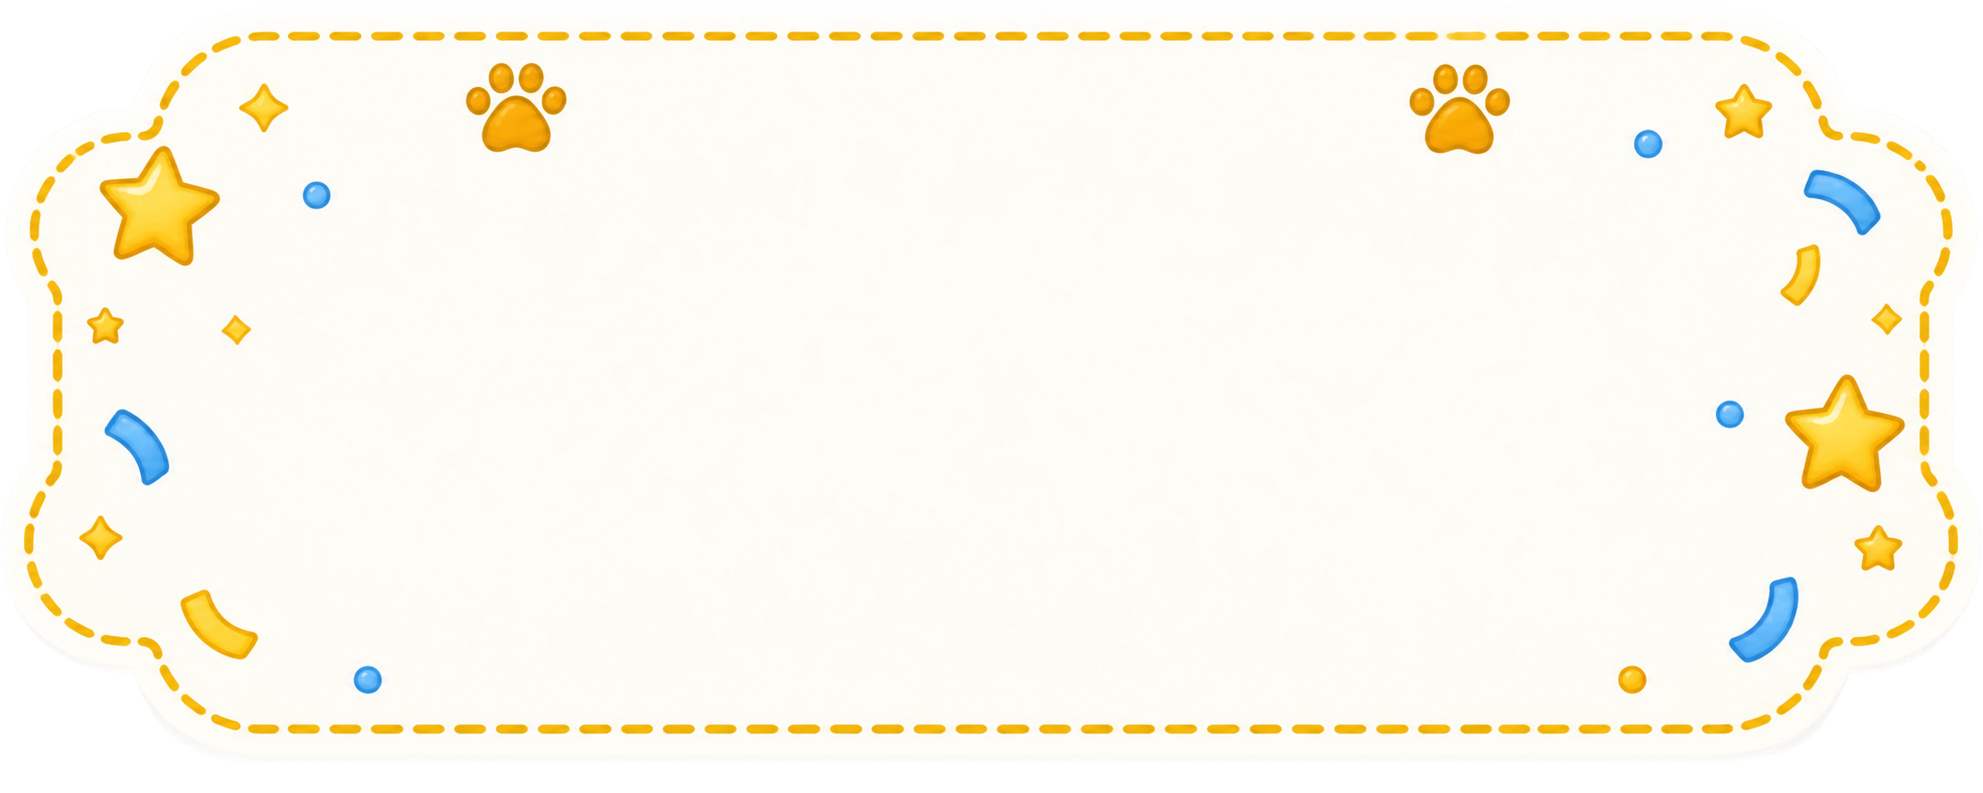
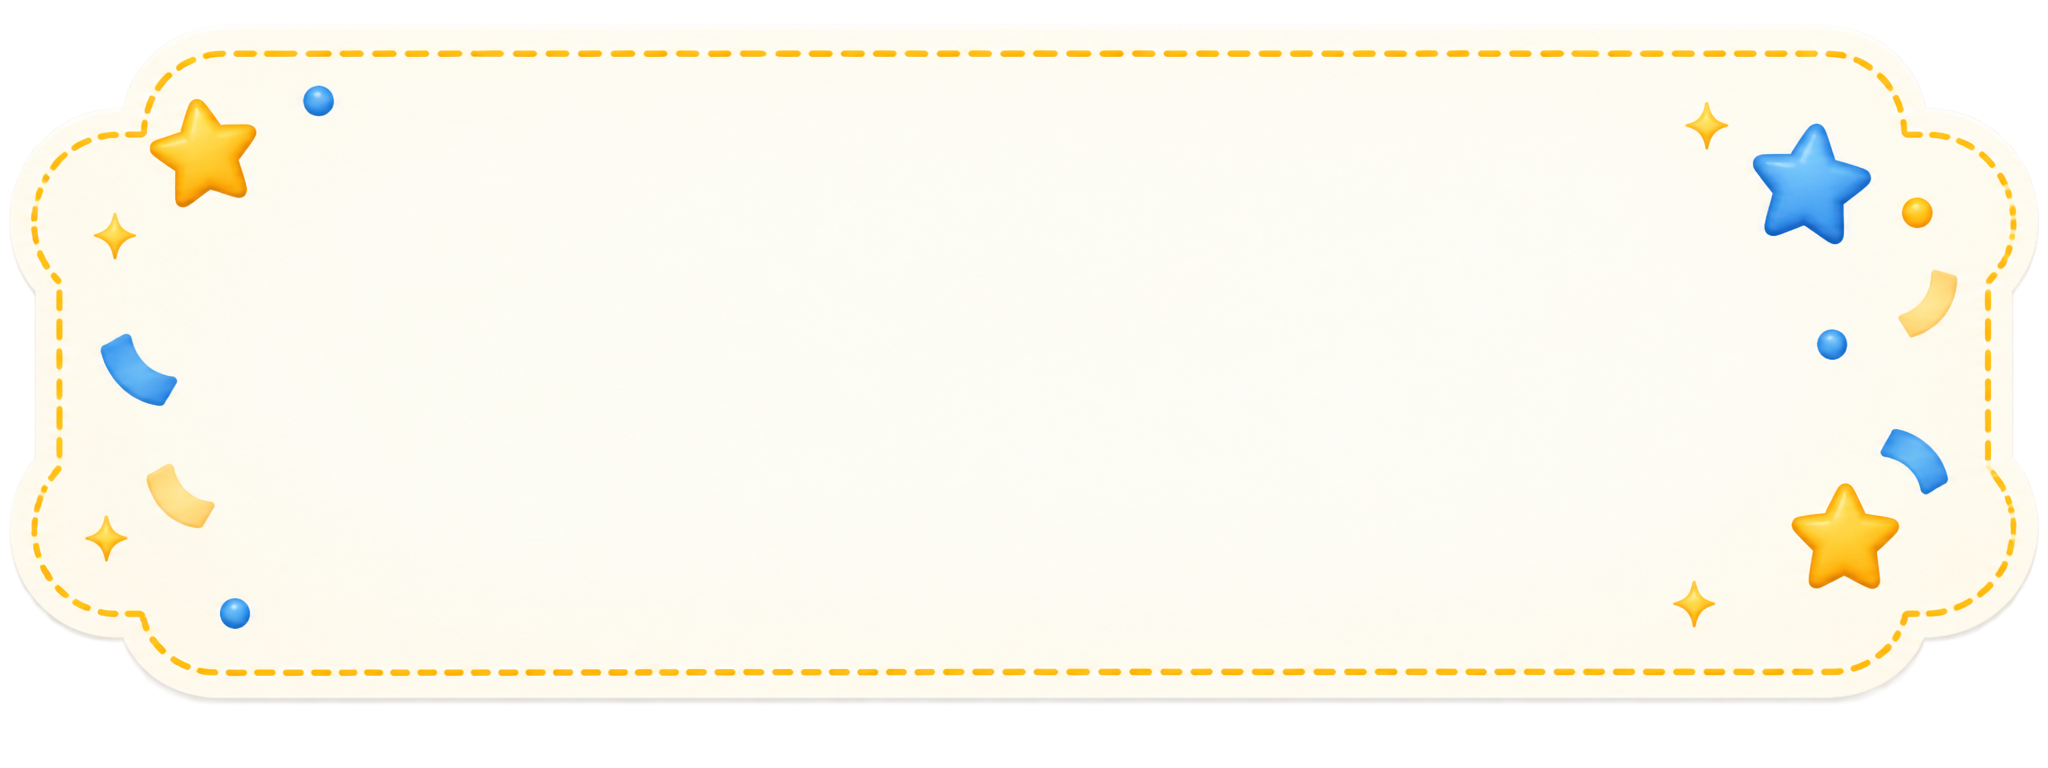
Replace and recenter gift table card

diff --git a/docs/index.html b/docs/index.html
@@ -1,5 +1,5 @@
 <!doctype html>
-<html lang="es"><head><meta charset="utf-8"><meta name="viewport" content="width=device-width,initial-scale=1"><meta name="theme-color" content="#07509a"><title>¡Mi cumple! | Invitación de Mateo</title><meta name="description" content="Acompáñanos a celebrar el cumpleaños de Mateo."><link rel="preconnect" href="https://fonts.googleapis.com"><link rel="preconnect" href="https://fonts.gstatic.com" crossorigin><link href="https://fonts.googleapis.com/css2?family=Fredoka:wght@500;600;700&display=swap" rel="stylesheet"><link rel="stylesheet" href="styles.css?v=42"><link rel="stylesheet" href="overrides.css?v=42"></head>
+<html lang="es"><head><meta charset="utf-8"><meta name="viewport" content="width=device-width,initial-scale=1"><meta name="theme-color" content="#07509a"><title>¡Mi cumple! | Invitación de Mateo</title><meta name="description" content="Acompáñanos a celebrar el cumpleaños de Mateo."><link rel="preconnect" href="https://fonts.googleapis.com"><link rel="preconnect" href="https://fonts.gstatic.com" crossorigin><link href="https://fonts.googleapis.com/css2?family=Fredoka:wght@500;600;700&display=swap" rel="stylesheet"><link rel="stylesheet" href="styles.css?v=43"><link rel="stylesheet" href="overrides.css?v=43"></head>
 <body><main class="invitation-page">
   <section class="hero-section" aria-label="Invitación para Mateo">
     <img class="balloons balloons-left" src="assets/balloons-left.png" alt=""><img class="balloons balloons-right" src="assets/balloons-right.png" alt="">
@@ -11,5 +11,5 @@
   <section class="countdown-section" aria-label="Cuenta regresiva para el cumpleaños"><h2><span aria-hidden="true">🐾</span> Cuenta regresiva <span aria-hidden="true">🐾</span></h2><ol class="countdown-grid"><li class="time-unit"><strong data-time="days">00</strong><span>Días</span></li><li class="time-unit"><strong data-time="hours">00</strong><span>Horas</span></li><li class="time-unit"><strong data-time="minutes">00</strong><span>Minutos</span></li><li class="time-unit"><strong data-time="seconds">00</strong><span>Segundos</span></li></ol></section>
   <section class="reception-section" aria-label="Información de la recepción"><h2>Recepción</h2><article class="reception-schedule"><p><span class="event-icon" aria-hidden="true">🗓</span><strong>Sábado</strong><small>17 de octubre<br>de 2026</small></p><p><span class="event-icon" aria-hidden="true">🕐</span><strong>1:00 p. m.</strong><small>Hora de inicio</small></p><a class="map-button" href="https://www.google.com/maps/search/?api=1&amp;query=Sal%C3%B3n+El+Para%C3%ADso+Av.+Las+Flores+123+Ciudad+Jard%C3%ADn" target="_blank" rel="noreferrer">📍 Ver mapa</a></article><article class="venue-card"><img src="assets/reception-castle.png" alt="Castillo azul de la recepción"><h3>Salón El Paraíso</h3><p>Av. Las Flores 123<br>Ciudad Jardín</p></article></section>
   <section class="dress-code-section" aria-label="Código de vestimenta"><svg class="paw-defs" aria-hidden="true"><defs><symbol id="dress-paw" viewBox="0 0 64 64"><ellipse cx="32" cy="42" rx="17" ry="14"/><ellipse cx="13" cy="28" rx="7" ry="9" transform="rotate(-24 13 28)"/><ellipse cx="25" cy="16" rx="7" ry="9" transform="rotate(-8 25 16)"/><ellipse cx="39" cy="16" rx="7" ry="9" transform="rotate(8 39 16)"/><ellipse cx="51" cy="28" rx="7" ry="9" transform="rotate(24 51 28)"/></symbol></defs></svg><h2><svg class="paw-icon" viewBox="0 0 64 64" aria-hidden="true"><use href="#dress-paw"/></svg><span>Código de vestimenta</span><svg class="paw-icon" viewBox="0 0 64 64" aria-hidden="true"><use href="#dress-paw"/></svg></h2><p><span><strong>Colores:</strong><br>azul, naranja y crema</span><span class="color-paws"><svg class="paw-icon paw-blue" viewBox="0 0 64 64" aria-hidden="true"><use href="#dress-paw"/></svg><svg class="paw-icon paw-orange" viewBox="0 0 64 64" aria-hidden="true"><use href="#dress-paw"/></svg><svg class="paw-icon paw-cream" viewBox="0 0 64 64" aria-hidden="true"><use href="#dress-paw"/></svg></span></p></section>
-  <section class="gift-section" aria-label="Mesa de regalos"><h2>Mesa de regalos</h2><img src="assets/gift-box.png" alt="Regalo azul con moño dorado"><p>Tu presencia es nuestro mejor regalo. Si deseas hacernos un obsequio, habrá mesa de regalos.<strong>Gracias de corazón</strong></p></section>
+  <section class="gift-section" aria-label="Mesa de regalos"><h2><svg class="paw-icon paw-gold" viewBox="0 0 64 64" aria-hidden="true"><use href="#dress-paw"/></svg><span>Mesa de regalos</span><svg class="paw-icon paw-gold" viewBox="0 0 64 64" aria-hidden="true"><use href="#dress-paw"/></svg></h2><img src="assets/gift-box.png" alt="Regalo azul con moño dorado"><p>Tu presencia es nuestro mejor regalo. Si deseas hacernos un obsequio, habrá mesa de regalos.<strong>Gracias de corazón</strong></p></section>
 </main><script>document.querySelectorAll('[data-curve]').forEach(el=>{const text=el.textContent||'';const letters=[...text];const middle=(letters.length-1)/2;const invited=el.classList.contains('invited');const gold=el.classList.contains('ribbon-copy-gold');const amplitude=invited?7:(gold?10:12);el.textContent='';el.setAttribute('aria-label',text);el.setAttribute('role','text');letters.forEach((letter,index)=>{const n=middle===0?0:(index-middle)/middle;const y=gold?(1-n*n)*amplitude:n*n*amplitude;const span=document.createElement('span');span.textContent=letter===' '?'\u00a0':letter;span.setAttribute('aria-hidden','true');span.style.setProperty('--curve-y',Math.round(y)+'px');el.append(span)});});const eventTime=new Date('2026-10-17T13:00:00-06:00').getTime();const fields={days:86400000,hours:3600000,minutes:60000,seconds:1000};function updateCountdown(){const distance=Math.max(0,eventTime-Date.now());const values={days:Math.floor(distance/fields.days),hours:Math.floor(distance/fields.hours)%24,minutes:Math.floor(distance/fields.minutes)%60,seconds:Math.floor(distance/fields.seconds)%60};Object.entries(values).forEach(([key,value])=>{document.querySelector('[data-time="'+key+'"]').textContent=String(value).padStart(2,'0')})}updateCountdown();setInterval(updateCountdown,1000);</script></body></html>

diff --git a/docs/overrides.css b/docs/overrides.css
@@ -43,9 +43,9 @@ body{background-image:linear-gradient(180deg,#07509a 0%,#2388cb 43%,#8ed2f1 74%,
 .paw-defs{position:absolute;width:0;height:0;overflow:hidden}
 .dress-code-section h2{position:absolute;top:14%;left:10%;display:grid;width:57%;height:30%;grid-template-columns:auto minmax(0,1fr) auto;align-items:center;gap:clamp(1px,1cqw,8px);overflow:hidden;margin:0;font-family:Georgia,serif;font-size:clamp(14px,4.3cqw,29px);line-height:.96;text-align:center;text-transform:uppercase;letter-spacing:0}.dress-code-section h2 span{min-width:0;overflow-wrap:break-word}.dress-code-section h2 .paw-icon{width:.82em;height:.82em;flex:none;fill:#1764b1}
 .dress-code-section p{position:absolute;top:44%;left:10%;display:grid;width:57%;height:40%;grid-template-columns:minmax(0,1fr) auto;align-items:center;gap:clamp(2px,1.2cqw,9px);overflow:hidden;margin:0;font-family:Georgia,serif;font-size:clamp(12px,3.7cqw,23px);line-height:1.03;text-align:center}.dress-code-section p>span:first-child{min-width:0;overflow-wrap:break-word}.dress-code-section p strong{font-size:1.08em;color:#c87917}.color-paws{display:flex;min-width:0;align-items:center;gap:clamp(2px,.8cqw,6px)}.color-paws .paw-icon{width:clamp(18px,4.7cqw,35px);height:clamp(18px,4.7cqw,35px);filter:drop-shadow(0 2px 1px #173f7830)}.paw-blue{fill:#1764b1}.paw-orange{fill:#ff8a18}.paw-cream{fill:#f3c95e}
-.gift-section{position:relative;width:100%;aspect-ratio:2000/766;margin-top:18px;overflow:hidden;contain:paint;background:url("assets/gift-card.png") center/contain no-repeat;color:#174879}
-.gift-section h2{position:absolute;top:13%;left:24%;width:52%;margin:0;text-align:center;font-family:Georgia,serif;font-size:clamp(20px,4.5vw,32px);text-transform:uppercase;letter-spacing:.03em}
+.gift-section{position:relative;width:100%;aspect-ratio:8/3;margin-top:18px;overflow:hidden;contain:paint;background:url("assets/gift-card.png?v=2") center/contain no-repeat;color:#174879}
+.gift-section h2{position:absolute;top:13%;left:22%;display:flex;width:56%;align-items:center;justify-content:center;gap:clamp(4px,1.2vw,9px);margin:0;text-align:center;font-family:Georgia,serif;font-size:clamp(20px,4.5vw,32px);text-transform:uppercase;letter-spacing:.03em}.gift-section h2 .paw-icon{width:.9em;height:.9em;flex:none}.paw-gold{fill:#d99a16;filter:drop-shadow(0 2px 1px #8b580830)}
 .gift-section>img{position:absolute;left:9%;bottom:10%;width:31%;height:62%;object-fit:contain}
-.gift-section>p{position:absolute;right:9%;top:38%;width:47%;margin:0;font-family:Georgia,serif;font-size:clamp(12px,2.6vw,18px);line-height:1.35;text-align:center}.gift-section>p strong{display:block;margin-top:9px;color:#c78316;font-size:1.1em;text-transform:uppercase;letter-spacing:.04em}
-@media(max-width:420px){.gift-section h2{top:12%;left:23%;width:54%;font-size:13px;letter-spacing:0}.gift-section>img{left:6%;bottom:14%;width:35%;height:58%}.gift-section>p{right:8%;top:37%;width:48%;font-size:8.5px;line-height:1.1}.gift-section>p strong{margin-top:3px;font-size:10px;letter-spacing:0}}
+.gift-section>p{position:absolute;right:12%;top:38%;width:46%;margin:0;font-family:Georgia,serif;font-size:clamp(12px,2.6vw,18px);line-height:1.35;text-align:center}.gift-section>p strong{display:block;margin-top:9px;color:#c78316;font-size:1.1em;text-transform:uppercase;letter-spacing:.04em}
+@media(max-width:420px){.gift-section h2{top:12%;left:20%;width:60%;gap:2px;font-size:13px;letter-spacing:0}.gift-section>img{left:6%;bottom:14%;width:35%;height:58%}.gift-section>p{right:11%;top:37%;width:47%;font-size:8.5px;line-height:1.1}.gift-section>p strong{margin-top:3px;font-size:10px;letter-spacing:0}}
 .ribbon-gold{top:86.5%;left:26%;width:48%}

diff --git a/app/globals.css b/app/globals.css
@@ -42,11 +42,11 @@ button{font:inherit}
 .dress-code-section h2{position:absolute;top:14%;left:10%;display:grid;width:57%;height:30%;grid-template-columns:auto minmax(0,1fr) auto;align-items:center;gap:clamp(1px,1cqw,8px);overflow:hidden;margin:0;font-family:Georgia,serif;font-size:clamp(14px,4.3cqw,29px);line-height:.96;text-align:center;text-transform:uppercase;letter-spacing:0}.dress-code-section h2 span{min-width:0;overflow-wrap:break-word}.dress-code-section h2 .paw-icon{width:.82em;height:.82em;flex:none;fill:#1764b1}
 .dress-code-section p{position:absolute;top:44%;left:10%;display:grid;width:57%;height:40%;grid-template-columns:minmax(0,1fr) auto;align-items:center;gap:clamp(2px,1.2cqw,9px);overflow:hidden;margin:0;font-family:Georgia,serif;font-size:clamp(12px,3.7cqw,23px);line-height:1.03;text-align:center}.dress-code-section p>span:first-child{min-width:0;overflow-wrap:break-word}.dress-code-section p strong{font-size:1.08em;color:#c87917}.color-paws{display:flex;min-width:0;align-items:center;gap:clamp(2px,.8cqw,6px)}.color-paws .paw-icon{width:clamp(18px,4.7cqw,35px);height:clamp(18px,4.7cqw,35px);filter:drop-shadow(0 2px 1px #173f7830)}.paw-blue{fill:#1764b1}.paw-orange{fill:#ff8a18}.paw-cream{fill:#f3c95e}
 
-.gift-section{position:relative;width:100%;aspect-ratio:2000/766;margin-top:18px;overflow:hidden;contain:paint;background:url("/assets/gift-card.png") center/contain no-repeat;color:#174879}
-.gift-section h2{position:absolute;top:13%;left:24%;width:52%;margin:0;text-align:center;font-family:Georgia,serif;font-size:clamp(20px,4.5vw,32px);text-transform:uppercase;letter-spacing:.03em}
+.gift-section{position:relative;width:100%;aspect-ratio:8/3;margin-top:18px;overflow:hidden;contain:paint;background:url("/assets/gift-card.png?v=2") center/contain no-repeat;color:#174879}
+.gift-section h2{position:absolute;top:13%;left:22%;display:flex;width:56%;align-items:center;justify-content:center;gap:clamp(4px,1.2vw,9px);margin:0;text-align:center;font-family:Georgia,serif;font-size:clamp(20px,4.5vw,32px);text-transform:uppercase;letter-spacing:.03em}.gift-section h2 .paw-icon{width:.9em;height:.9em;flex:none}.paw-gold{fill:#d99a16;filter:drop-shadow(0 2px 1px #8b580830)}
 .gift-section>img{position:absolute;left:9%;bottom:10%;width:31%;height:62%;object-fit:contain}
-.gift-section>p{position:absolute;right:9%;top:38%;width:47%;margin:0;font-family:Georgia,serif;font-size:clamp(12px,2.6vw,18px);line-height:1.35;text-align:center}.gift-section>p strong{display:block;margin-top:9px;color:#c78316;font-size:1.1em;text-transform:uppercase;letter-spacing:.04em}
-@media(max-width:420px){.gift-section h2{top:12%;left:23%;width:54%;font-size:13px;letter-spacing:0}.gift-section>img{left:6%;bottom:14%;width:35%;height:58%}.gift-section>p{right:8%;top:37%;width:48%;font-size:8.5px;line-height:1.1}.gift-section>p strong{margin-top:3px;font-size:10px;letter-spacing:0}}
+.gift-section>p{position:absolute;right:12%;top:38%;width:46%;margin:0;font-family:Georgia,serif;font-size:clamp(12px,2.6vw,18px);line-height:1.35;text-align:center}.gift-section>p strong{display:block;margin-top:9px;color:#c78316;font-size:1.1em;text-transform:uppercase;letter-spacing:.04em}
+@media(max-width:420px){.gift-section h2{top:12%;left:20%;width:60%;gap:2px;font-size:13px;letter-spacing:0}.gift-section>img{left:6%;bottom:14%;width:35%;height:58%}.gift-section>p{right:11%;top:37%;width:47%;font-size:8.5px;line-height:1.1}.gift-section>p strong{margin-top:3px;font-size:10px;letter-spacing:0}}
 
 /* Stronger side artwork and copy following each ribbon's visible band. */
 .hero-section::before{top:3%;bottom:3%}

diff --git a/app/page.tsx b/app/page.tsx
@@ -101,7 +101,7 @@ export default function Home() {
       </section>
 
       <section className="gift-section" aria-label="Mesa de regalos">
-        <h2>Mesa de regalos</h2>
+        <h2><Paw className="paw-gold" /><span>Mesa de regalos</span><Paw className="paw-gold" /></h2>
         <img src="/assets/gift-box.png" alt="Regalo azul con moño dorado" />
         <p>Tu presencia es nuestro mejor regalo. Si deseas hacernos un obsequio, habrá mesa de regalos.<strong>Gracias de corazón</strong></p>
       </section>
